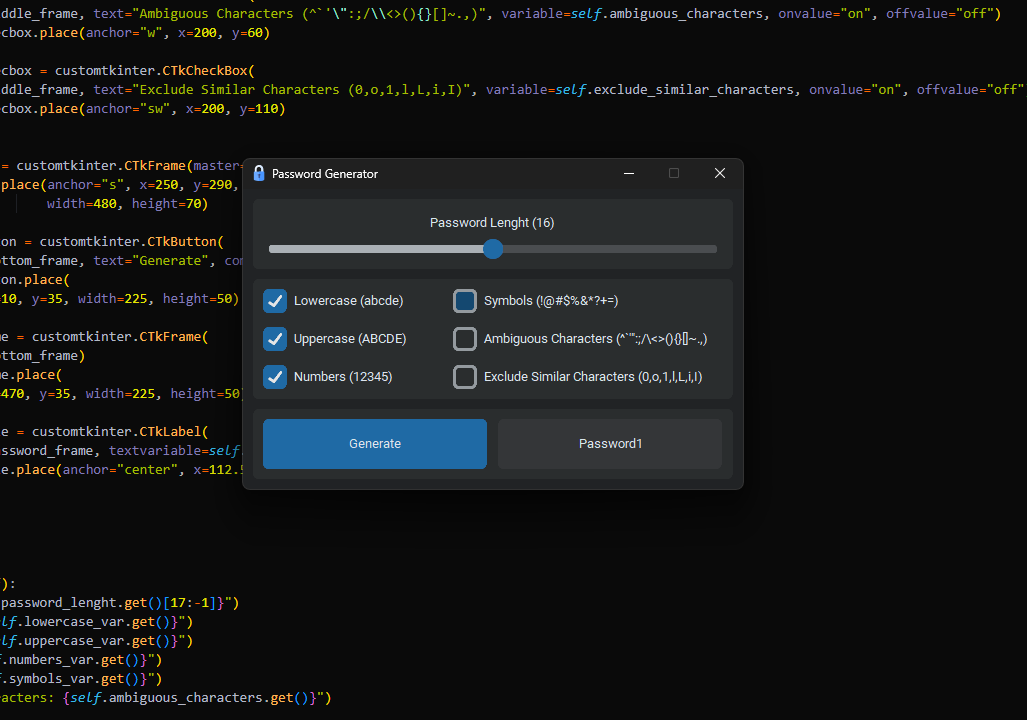
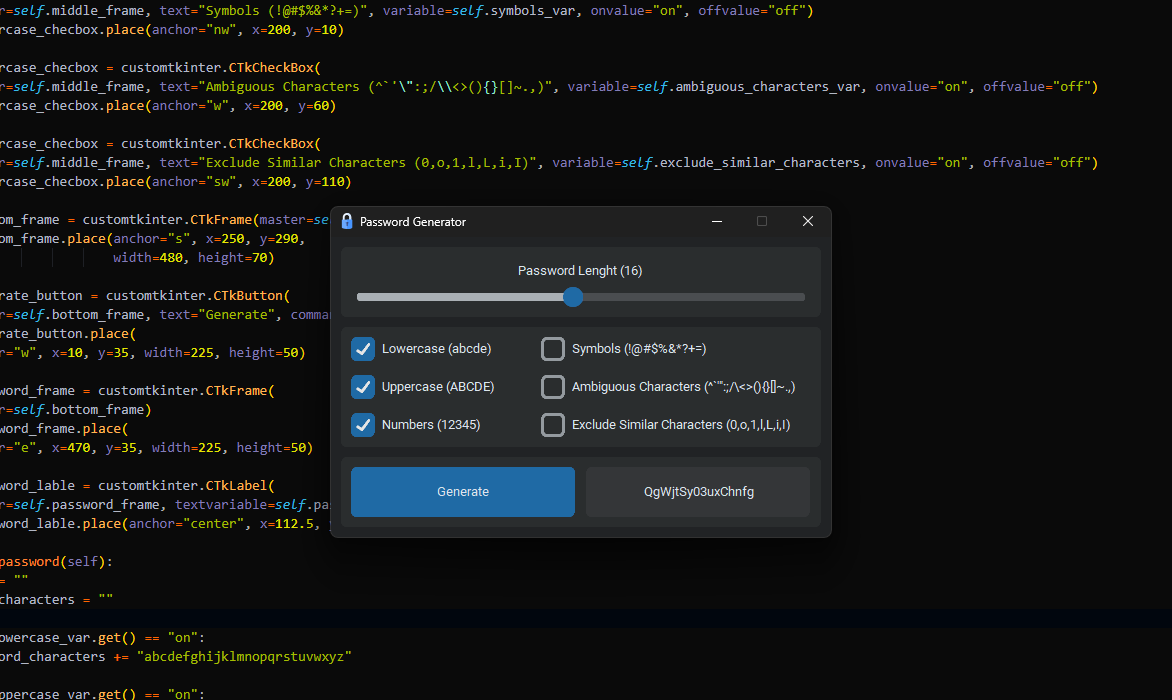
Password Generation
You are now able to use the gui and generate passwords

Changed region(s): [[0.0, 0.09, 0.9971, 1.0], [0.0, 0.0, 0.9659, 0.06]]

diff --git a/main.py b/main.py
@@ -1,5 +1,6 @@
 import os
 import random
+import re
 from tkinter import PhotoImage, StringVar
 
 import customtkinter
@@ -26,97 +27,100 @@ class App(customtkinter.CTk):
         self.numbers_var = StringVar(self, "on")
 
         self.symbols_var = StringVar(self, "off")
-        self.ambiguous_characters = StringVar(self, "off")
+        self.ambiguous_characters_var = StringVar(self, "off")
         self.exclude_similar_characters = StringVar(self, "off")
 
-        self.password = StringVar(self, "Password1")
+        self.password = StringVar(self, "")
 
-        def top():
-            self.top_frame = customtkinter.CTkFrame(master=self)
-            self.top_frame.place(anchor="n", x=250, y=10,
-                                 width=480, height=70)
+        self.top_frame = customtkinter.CTkFrame(master=self)
+        self.top_frame.place(anchor="n", x=250, y=10,
+                             width=480, height=70)
 
-            self.password_lenght_lable = customtkinter.CTkLabel(
-                master=self.top_frame, textvariable=self.password_lenght)
-            self.password_lenght_lable.place(anchor="n", x=240, y=10)
+        self.password_lenght_lable = customtkinter.CTkLabel(
+            master=self.top_frame, textvariable=self.password_lenght)
+        self.password_lenght_lable.place(anchor="n", x=240, y=10)
 
-            self.password_slider = customtkinter.CTkSlider(
-                master=self.top_frame, from_=8, to=24, command=lambda lenght: self.password_lenght.set(f"Password Lenght ({round(lenght)})"))
-            self.password_slider.place(
-                anchor="n", x=240, y=40, width=460, height=20)
-            self.password_slider.set(16)
+        self.password_slider = customtkinter.CTkSlider(
+            master=self.top_frame, from_=8, to=24, command=lambda lenght: self.password_lenght.set(f"Password Lenght ({round(lenght)})"))
+        self.password_slider.place(
+            anchor="n", x=240, y=40, width=460, height=20)
+        self.password_slider.set(16)
 
-        def middle():
-            self.middle_frame = customtkinter.CTkFrame(master=self)
-            self.middle_frame.place(anchor="center", x=250,
-                                    y=150, width=480, height=120)
+        self.middle_frame = customtkinter.CTkFrame(master=self)
+        self.middle_frame.place(anchor="center", x=250,
+                                y=150, width=480, height=120)
 
-            self.lowercase_checbox = customtkinter.CTkCheckBox(
-                master=self.middle_frame, text="Lowercase (abcde)", variable=self.lowercase_var, onvalue="on", offvalue="off")
-            self.lowercase_checbox.place(anchor="nw", x=10, y=10)
+        self.lowercase_checbox = customtkinter.CTkCheckBox(
+            master=self.middle_frame, text="Lowercase (abcde)", variable=self.lowercase_var, onvalue="on", offvalue="off")
+        self.lowercase_checbox.place(anchor="nw", x=10, y=10)
 
-            self.uppercase_checbox = customtkinter.CTkCheckBox(
-                master=self.middle_frame, text="Uppercase (ABCDE)", variable=self.uppercase_var, onvalue="on", offvalue="off")
-            self.uppercase_checbox.place(anchor="w", x=10, y=60)
+        self.uppercase_checbox = customtkinter.CTkCheckBox(
+            master=self.middle_frame, text="Uppercase (ABCDE)", variable=self.uppercase_var, onvalue="on", offvalue="off")
+        self.uppercase_checbox.place(anchor="w", x=10, y=60)
 
-            self.uppercase_checbox = customtkinter.CTkCheckBox(
-                master=self.middle_frame, text="Numbers (12345)", variable=self.numbers_var, onvalue="on", offvalue="off")
-            self.uppercase_checbox.place(anchor="sw", x=10, y=110)
+        self.uppercase_checbox = customtkinter.CTkCheckBox(
+            master=self.middle_frame, text="Numbers (12345)", variable=self.numbers_var, onvalue="on", offvalue="off")
+        self.uppercase_checbox.place(anchor="sw", x=10, y=110)
 
-            self.lowercase_checbox = customtkinter.CTkCheckBox(
-                master=self.middle_frame, text="Symbols (!@#$%&*?+=)", variable=self.symbols_var, onvalue="on", offvalue="off")
-            self.lowercase_checbox.place(anchor="nw", x=200, y=10)
+        self.lowercase_checbox = customtkinter.CTkCheckBox(
+            master=self.middle_frame, text="Symbols (!@#$%&*?+=)", variable=self.symbols_var, onvalue="on", offvalue="off")
+        self.lowercase_checbox.place(anchor="nw", x=200, y=10)
 
-            self.uppercase_checbox = customtkinter.CTkCheckBox(
-                master=self.middle_frame, text="Ambiguous Characters (^`'\":;/\\<>(){}[]~.,)", variable=self.ambiguous_characters, onvalue="on", offvalue="off")
-            self.uppercase_checbox.place(anchor="w", x=200, y=60)
+        self.uppercase_checbox = customtkinter.CTkCheckBox(
+            master=self.middle_frame, text="Ambiguous Characters (^`'\":;/\\<>(){}[]~.,)", variable=self.ambiguous_characters_var, onvalue="on", offvalue="off")
+        self.uppercase_checbox.place(anchor="w", x=200, y=60)
 
-            self.uppercase_checbox = customtkinter.CTkCheckBox(
-                master=self.middle_frame, text="Exclude Similar Characters (0,o,1,l,L,i,I)", variable=self.exclude_similar_characters, onvalue="on", offvalue="off")
-            self.uppercase_checbox.place(anchor="sw", x=200, y=110)
+        self.uppercase_checbox = customtkinter.CTkCheckBox(
+            master=self.middle_frame, text="Exclude Similar Characters (0,o,1,l,L,i,I)", variable=self.exclude_similar_characters, onvalue="on", offvalue="off")
+        self.uppercase_checbox.place(anchor="sw", x=200, y=110)
 
-        def bottom():
-            self.bottom_frame = customtkinter.CTkFrame(master=self)
-            self.bottom_frame.place(anchor="s", x=250, y=290,
-                                    width=480, height=70)
+        self.bottom_frame = customtkinter.CTkFrame(master=self)
+        self.bottom_frame.place(anchor="s", x=250, y=290,
+                                width=480, height=70)
 
-            self.generate_button = customtkinter.CTkButton(
-                master=self.bottom_frame, text="Generate", command=self.generate_password)
-            self.generate_button.place(
-                anchor="w", x=10, y=35, width=225, height=50)
+        self.generate_button = customtkinter.CTkButton(
+            master=self.bottom_frame, text="Generate", command=self.generate_password)
+        self.generate_button.place(
+            anchor="w", x=10, y=35, width=225, height=50)
 
-            self.password_frame = customtkinter.CTkFrame(
-                master=self.bottom_frame)
-            self.password_frame.place(
-                anchor="e", x=470, y=35, width=225, height=50)
+        self.password_frame = customtkinter.CTkFrame(
+            master=self.bottom_frame)
+        self.password_frame.place(
+            anchor="e", x=470, y=35, width=225, height=50)
 
-            self.password_lable = customtkinter.CTkLabel(
-                master=self.password_frame, textvariable=self.password)
-            self.password_lable.place(anchor="center", x=112.5, y=25)
-
-        top()
-        middle()
-        bottom()
+        self.password_lable = customtkinter.CTkLabel(
+            master=self.password_frame, textvariable=self.password)
+        self.password_lable.place(anchor="center", x=112.5, y=25)
 
     def generate_password(self):
-        print(f"Lenght: {self.password_lenght.get()[17:-1]}")
-        print(f"Lowercase: {self.lowercase_var.get()}")
-        print(f"Uppercase: {self.uppercase_var.get()}")
-        print(f"Numbers: {self.numbers_var.get()}")
-        print(f"Symbols: {self.symbols_var.get()}")
-        print(f"Ambiguous Characters: {self.ambiguous_characters.get()}")
-        print(
-            f"Exclude Similar Characters : {self.exclude_similar_characters.get()}")
-        print("--------------------------------")
+        password = ""
+        password_characters = ""
 
-        lowercase = "abcdefghijklmnopqrstuvwxyz"
-        uppercase = "ABCDEFGHIJKLMNOPQRSTUVWXYZ"
-        number = "1234567890"
-        symbols = "!@#$%&*?+="
-        ambiguous_characters = "^`'\":;/\\<>(){}[]~.,"
-        similar_characters = "0o1lLiI"
+        if self.lowercase_var.get() == "on":
+            password_characters += "abcdefghijklmnopqrstuvwxyz"
 
-        self.password.set(f"Password{random.randint(1, 99)}")
+        if self.uppercase_var.get() == "on":
+            password_characters += "ABCDEFGHIJKLMNOPQRSTUVWXYZ"
+
+        if self.numbers_var.get() == "on":
+            password_characters += "1234567890"
+
+        if self.symbols_var.get() == "on":
+            password_characters += "!@#$%&*?+="
+
+        if self.ambiguous_characters_var.get() == "on":
+            password_characters += "^`'\":;/\\<>(){}[]~.,"
+
+        if self.exclude_similar_characters.get() == "on":
+            password_characters = re.sub(r"[0o1lLiI]", "", password_characters)
+
+        for _ in range(int(self.password_lenght.get()[17:-1])):
+            try:
+                password += random.choice(password_characters)
+            except:
+                password = ""
+
+        self.password.set(password)
 
     def mainloop(self):
         return super().mainloop()

diff --git a/README.md b/README.md
@@ -1,7 +1,19 @@
 # Password Generator GUI
 
-This is a non-functional password generator. The GUI is the focus.
+A functional password generator.
 
 ![password_generator_gui.png](README.assets/password_generator_gui.png)
 
-It might be functional soon.
+## Instructions
+
+### Installation
+
+Make sure you have customtkinter installed.
+
+```python
+pip install customtkinter # install pygame with pip
+```
+
+### How To Use
+
+If you can't figure out how to use it, find a window higher than two stories, ideally five stories.
